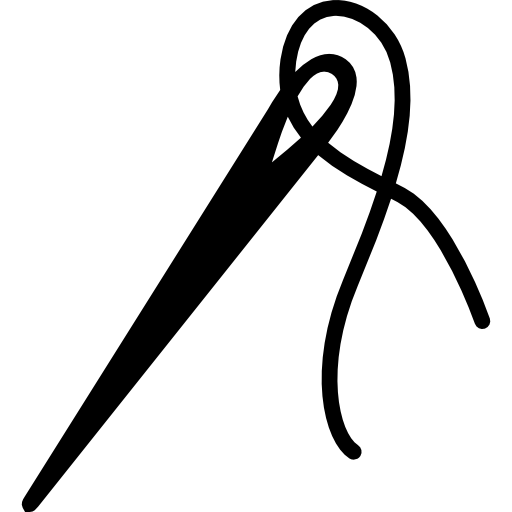
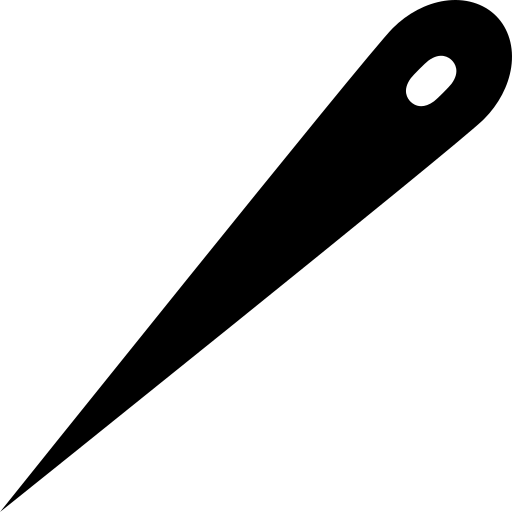
cambios en servicios, correcion de imagenes

diff --git a/index.html b/index.html
@@ -13,7 +13,7 @@
     
     <!-- Bootstrap core CSS -->
     <link href="vendor/bootstrap/css/bootstrap.min.css" rel="stylesheet">
-
+    <link rel="icon" href="/Lovatex/assets/images/iconos/lovatexLogo.jpeg"/>
 
     <!-- Additional CSS Files -->
     <link rel="stylesheet" href="assets/css/fontawesome.css">
@@ -169,14 +169,14 @@ https://templatemo.com/tm-574-mexant
       <div class="row">
         <div class="col-lg-6">
           <div class="service-item">
-            <i class="fas fa-archive"></i>
+            <img class="iconImgService" src="/Lovatex/assets/images/iconos/aguja-con-hilo-para-coser-ropa.png"/>
             <h4>Venta de Maquinaria Industrial</h4>
             <p>Ofrecemos una amplia gama de equipos especializados para diversos sectores productivos.</p>
           </div>
         </div>
         <div class="col-lg-6">
           <div class="service-item">
-            <i class="fas fa-cloud"></i>
+            <img class="iconImgService" src="/Lovatex/assets/images/iconos/cloud.png"/>
             <h4>Venta en linea</h4>
             <p>Compra nuestras soluciones industriales directamente desde nuestra plataforma en línea, de manera rápida y segura.</p>
           </div>
@@ -184,7 +184,7 @@ https://templatemo.com/tm-574-mexant
 
         <div class="col-lg-6">
           <div class="service-item">
-            <i class="fas fa-suitcase"></i>
+            <img class="iconImgService" src="/Lovatex/assets/images/iconos/support.png">
             <h4>Suministro de repuestos</h4>
             <p>Disponemos de piezas y accesorios para optimizar el funcionamiento de tus equipos.</p>
           </div>
@@ -192,7 +192,7 @@ https://templatemo.com/tm-574-mexant
 
         <div class="col-lg-6">
           <div class="service-item">
-            <i class="fas fa-puzzle-piece"></i>
+            <img class="iconImgService" src="/Lovatex/assets/images/iconos/camion-de-carga.png">
             <h4>Distribución al por mayor</h4>
             <p>Proveemos maquinaria y equipos en grandes volúmenes para la industria textil, alimentaria, y más.</p>
           </div>

diff --git a/assets/css/templatemo-574-mexant.css b/assets/css/templatemo-574-mexant.css
@@ -44,6 +44,10 @@ figure, header, nav, section, article, aside, footer, figcaption {
   outline: 0;
 }
 
+img
+{
+  -webkit-user-drag: none;
+}
 .clearfix:after {
   content: ".";
   display: block;
@@ -827,20 +831,24 @@ section.services {
   margin-bottom: 20px;
 }
 
-.services .service-item i {
+.iconImgService {
   transition: all .5s;
   float: left;
   font-size: 64px;
-  color: #43ba7f;
+  -webkit-user-drag: none;
   margin-bottom: 30px;
   margin-right: 30px;
-}
+  width: 8vh;
+  filter: brightness(0) saturate(100%) invert(54%) sepia(30%) saturate(581%) hue-rotate(86deg) brightness(92%);}
 
 .service-item p
 {
   padding-left: 30%;
   justify-content: left;
 }
+
+
+
 
 
 /*
